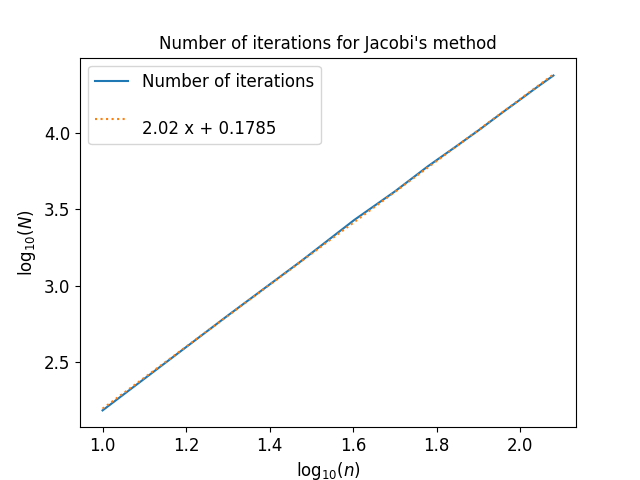
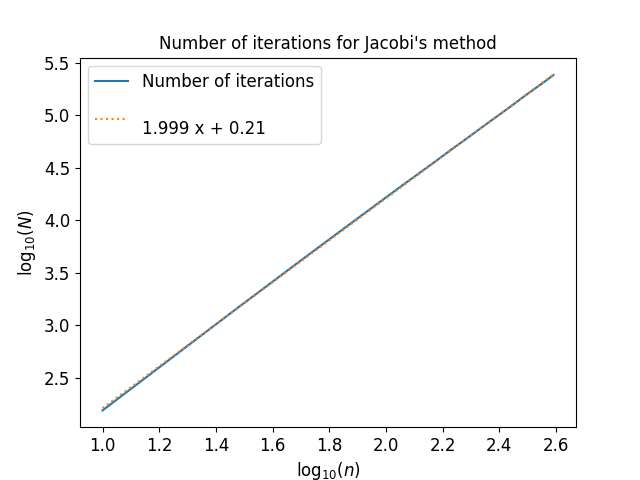
added .x to makefile

diff --git a/P2/benchmark.cpp b/P2/benchmark.cpp
@@ -3,7 +3,7 @@
 #include <chrono>
 #include <fstream>
 
-#include "func.h"
+#include "jacobi.h"
 
 using namespace arma;
 using namespace std;
@@ -17,11 +17,11 @@ int main()
     vec eigval;
     mat eigvec;
     int N;
-    int m = 10;
+    int m = 1;
     double average_time_jacobi = 0;
     double average_time_arma = 0;
     //Runs Jacobis method and Armadillos eig_sym n = 10, 20, ..., 120
-    for(int n = 10; n <= 120; n += 10)
+    for(int n = 10; n <= 400; n += 20)
     {
         //Runs the methods m = 10 times for each n, then averages the times
         for(int i = 0; i < m; i++)

diff --git a/P2/jacobi.cpp b/P2/jacobi.cpp
@@ -1,9 +1,9 @@
-//#include <func.h>
+//#include <jacobi.h>
 #include <iostream>
 #include <math.h>
 #include <armadillo>
 #include <utility>
-#include "func.h"
+#include "jacobi.h"
 
 using namespace arma;
 using namespace std;

diff --git a/P2/test.cpp b/P2/test.cpp
@@ -1,7 +1,7 @@
 #include <iostream>
 #include <iomanip>
 #include <armadillo>
-#include "func.h"
+#include "jacobi.h"
 #include <math.h>
 using namespace arma;
 using namespace std;

diff --git a/P2/quantumDot.cpp b/P2/quantumDot.cpp
@@ -5,7 +5,7 @@
 #include <armadillo>
 #include <fstream>
 
-#include "func.h"
+#include "jacobi.h"
 
 using namespace arma;
 using namespace std;
